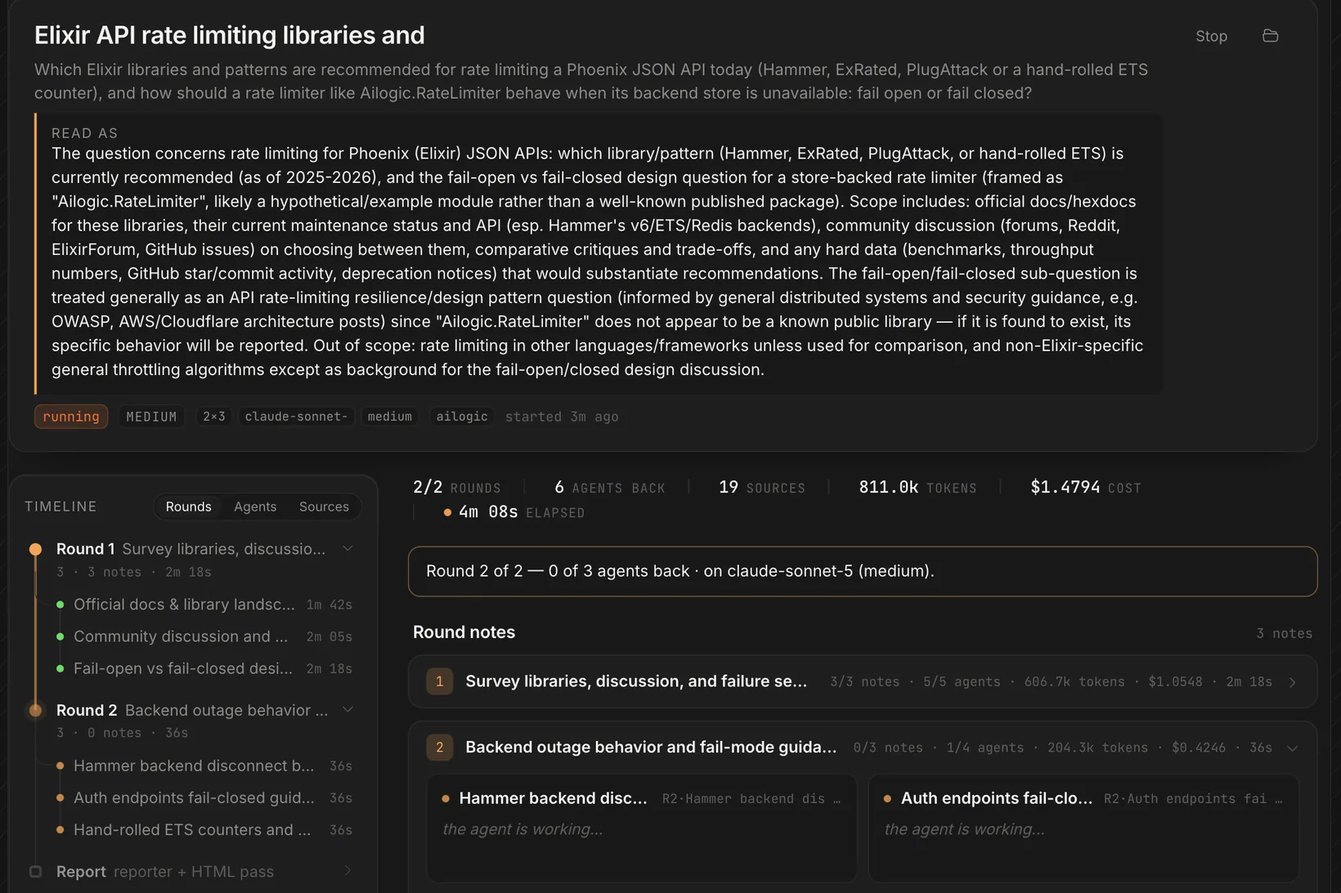
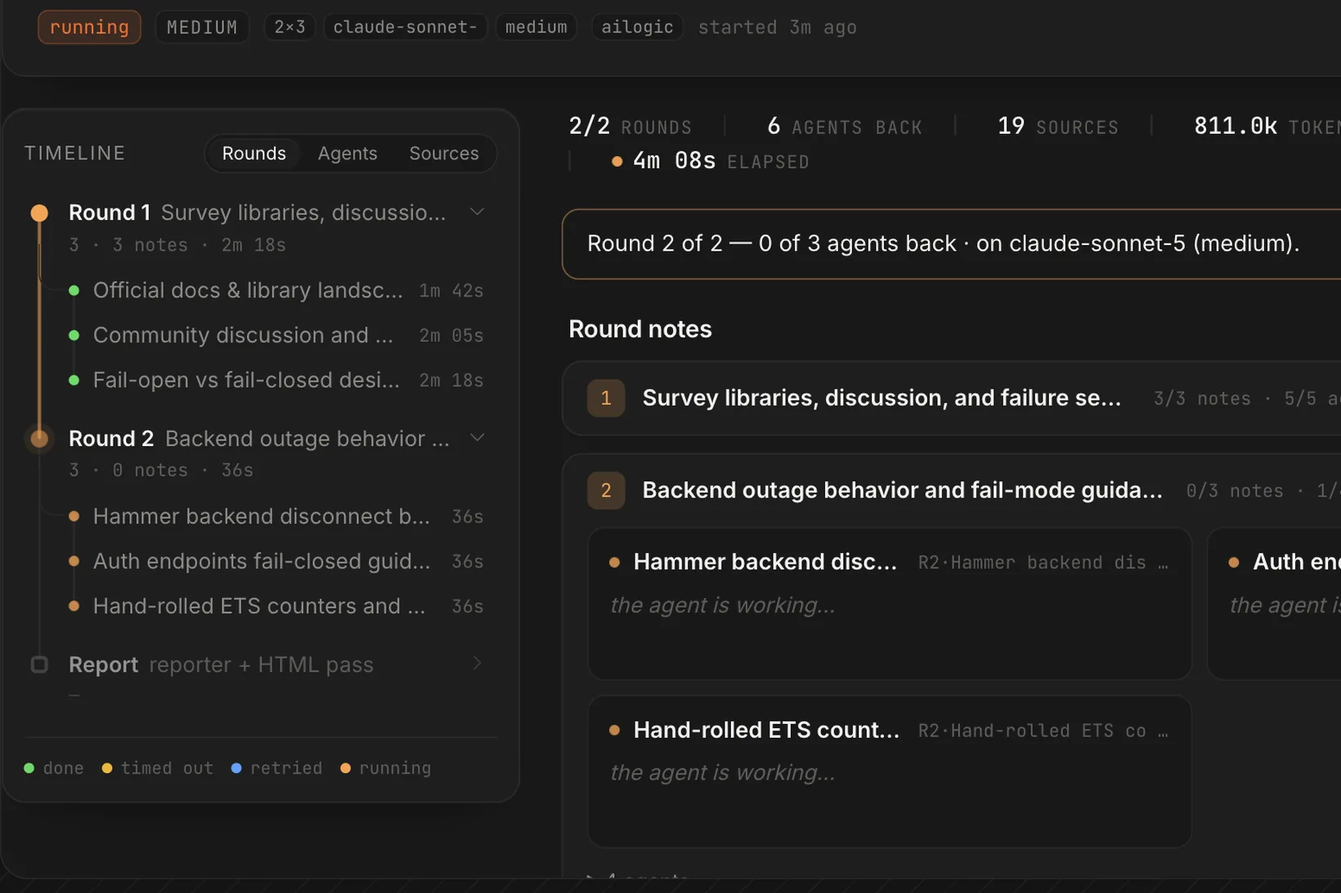
ncode site: phase-2 showcase fixes (S1-S7, S9-S14) and BYOK hero copy
Legible stage shots at 390, lightbox skipped under 600px, same swarm on both
faces, the real composer shot, 1000w srcset for every stage, research re-crop,
range media queries, neighbour warm-up, JS-created zoom image, scrollbar gutter.
Hero and meta description say bring your own key for any provider.

diff --git a/code/index.html b/code/index.html
@@ -4,7 +4,7 @@
 <meta charset="utf-8">
 <meta name="viewport" content="width=device-width, initial-scale=1">
 <title>ncode: a coding harness for the Mac and the terminal</title>
-<meta name="description" content="ncode is a coding harness where every run, agent and operation is a process with its own progress bar. A native Mac app and a CLI on one engine. Bring your own model key.">
+<meta name="description" content="ncode is a coding harness where every run, agent and operation is a process with its own progress bar. A native Mac app and a CLI on one engine. Bring your own key for any provider.">
 <link rel="canonical" href="https://code.llmotions.com/">
 <meta property="og:type" content="website">
 <meta property="og:site_name" content="ncode">
@@ -18,8 +18,8 @@
 <link rel="preconnect" href="https://fonts.gstatic.com" crossorigin>
 <link rel="stylesheet" href="https://fonts.googleapis.com/css2?family=Instrument+Sans:wght@500;600;700&amp;family=Inter:wght@400;500;600&amp;display=swap">
 <link rel="stylesheet" href="/assets/llm.css?v=4c90c21c">
-<link rel="stylesheet" href="/assets/ncode.css?v=31a07ffa">
-<script src="/assets/ncode.js?v=d0248e8e" defer></script>
+<link rel="stylesheet" href="/assets/ncode.css?v=211b546b">
+<script src="/assets/ncode.js?v=5beff562" defer></script>
 </head>
 <body class="nc">
 <a class="nc-skip" href="#main">Skip to content</a>
@@ -53,7 +53,7 @@
             <a class="nc-btn nc-btn-ember" href="#download">Download for Mac</a>
             <a class="nc-btn" href="#install">Install the CLI</a>
         </p>
-        <p class="nc-fine">Developer preview for macOS 15 or later on Apple silicon. Bring your own model key.</p>
+        <p class="nc-fine">Developer preview for macOS 15 or later on Apple silicon. Bring your own key for any provider you choose.</p>
     </div>
 
     <figure class="nc-run" aria-labelledby="run-cap">
@@ -124,17 +124,17 @@
             <h3 id="face-cli">ncode in the terminal</h3>
             <p class="face-lede">A full-screen session with the same runs, the same agents and the same approvals, kept to the keyboard.</p>
             <!-- phase-2 slot: replace this drawing with a capture under /assets/shots/cli/ once the seeded capture exists -->
-            <div class="tty" role="img" aria-label="The ncode terminal session: the swarm run card with the Lead and four reviewers, the found line with one of four reports in, and the key hints for agents, needs you and the side panel.">
-<pre><span class="t-ac">●</span> <b>ailogic</b>   <span class="t-sw">⋔</span> <span class="t-tm">swarm review changes</span> <span class="t-ac">●</span> <span class="t-tm">16:15</span>
+            <div class="tty" role="img" aria-label="The ncode terminal session on the same swarm: the Lead waiting above four sub-agents, ratelimiter-edge done and three thinking, one of four reports in, and the key hints for agents, needs you and the side panel.">
+<pre><span class="t-ac">●</span> <b>ailogic</b>   <span class="t-sw">⋔</span> <span class="t-tm">add edge case tests</span> <span class="t-ac">●</span> <span class="t-tm">1:11</span>
 
- <span class="t-sw">⋔</span> <b class="t-sw">Lead</b>                         <span class="t-ac">thinking ▌</span>
-   <span class="t-tf">├</span> ◒ <span class="t-l2">Docs accuracy</span>  <span class="t-tm">thinking</span>    running a command
-   <span class="t-tf">├</span> <span class="t-ok">✓</span> <span class="t-l1">TS removal</span>     <span class="t-ok">done</span>        Deleting ailogic_typescript/…
-   <span class="t-tf">├</span> ◒ <span class="t-l4">Strategy fit</span>   <span class="t-tm">thinking</span>    wrapping up.
-   <span class="t-tf">╰</span> <span class="t-er">✗</span> <span class="t-l3">Build check</span>    <span class="t-er">turn limit</span>  <span class="t-tm">no answer after 30 turns</span>
+ <span class="t-sw">⋔</span> <b class="t-sw">Lead</b>                         <span class="t-tm">waiting for 3</span>
+   <span class="t-tf">├</span> <span class="t-ok">✓</span> <span class="t-l1">ratelimiter-edge</span>  <span class="t-ok">done</span>      All 14 tests pass…
+   <span class="t-tf">├</span> ◒ <span class="t-l2">templates-edge</span>    <span class="t-tm">thinking</span>
+   <span class="t-tf">├</span> ◒ <span class="t-l3">macros-edge</span>       <span class="t-tm">thinking</span>
+   <span class="t-tf">╰</span> ◒ <span class="t-l4">coreerror-edge</span>    <span class="t-tm">thinking</span>
 
- <span class="t-tm">found</span>           <span class="t-tm">1 of 4 in</span> <span class="t-tf">· no files changed</span>
- <span class="t-sw">⋔</span> <span class="t-l1">▄▄▄▄▄▄▄▄</span> <span class="t-er">▁▁▁▁▁▁▁▁</span> <span class="t-tf">▁▁▁▁▁▁▁▁ ▁▁▁▁▁▁▁▁</span>
+ <span class="t-tm">found</span>           <span class="t-tm">1 of 4 in</span> <span class="t-tf">· 1 file changed</span>
+ <span class="t-sw">⋔</span> <span class="t-l1">▄▄▄▄▄▄▄▄</span> <span class="t-l2">▄▄▄▄</span><span class="t-tf">▁▁▁▁</span> <span class="t-l3">▄▄▄</span><span class="t-tf">▁▁▁▁▁</span> <span class="t-l4">▄▄</span><span class="t-tf">▁▁▁▁▁▁</span>
 
  <span class="t-ac">▌</span><span class="t-tf">                                             </span>
  <b class="t-tm">^F</b> <span class="t-tf">agents</span>  <b class="t-tm">^N</b> <span class="t-tf">needs you</span>  <b class="t-tm">^B</b> <span class="t-tf">panel</span></pre>
@@ -155,27 +155,16 @@
         <h2 id="modes-h">Six ways to send a message</h2>
         <p>The composer carries a mode. It decides what the next message starts: a turn that edits, a read-only plan, a goal, a workflow or a judged plan. <kbd>Shift</kbd>+<kbd>Tab</kbd> flips between Build and Plan in the app, and a slash command that names a mode selects it.</p>
     </header>
-    <div class="composer" role="img" aria-label="The ncode composer with its mode menu open, listing Build, Plan, Goal, Ultra, Workflow and Consensus with their hints.">
-        <ul class="cm-menu">
-            <li class="cm-on"><span class="cm-g">🛠</span><b>Build</b><span>the assistant reads, writes and runs</span></li>
-            <li><span class="cm-g">▤</span><b>Plan</b><span>read-only tools, a step-by-step plan</span></li>
-            <li><span class="cm-g">◎</span><b>Goal</b><span>the next message sets a goal to pursue</span></li>
-            <li><span class="cm-g">⧉</span><b>Ultra</b><span>big tasks become workflows</span></li>
-            <li><span class="cm-g">⧉</span><b>Workflow</b><span>the next message authors and launches a workflow</span></li>
-            <li><span class="cm-g">⚖</span><b>Consensus</b><span>a second model judges the plan first</span></li>
-        </ul>
-        <div class="cm-box">
-            <p class="cm-draft">let's plan how to make this app better<span class="cm-caret"></span></p>
-            <p class="cm-foot"><span class="cm-chip">🛠 Build</span><span class="cm-model">auto</span></p>
-        </div>
-    </div>
+    <figure class="face-shot nc-composer-shot">
+        <a href="/assets/shots/desktop/composer-mode-menu.webp" data-zoom="1760"><img src="/assets/shots/desktop/composer-mode-menu.webp" width="880" height="458" loading="lazy" decoding="async" alt="The real ncode composer with its mode menu open, listing Build, Plan, Goal, Ultra, Workflow and Consensus with their hints, and the model chip set to claude-sonnet-5 at Medium effort."></a>
+    </figure>
 </section>
 
 <!-- ═══ showcase: each mode caught running in the real app (shots: ~/.cache/ncode/demo/shots, QA OK) ═══ -->
 <section id="showcase" class="nc-sec nc-show" aria-labelledby="show-h">
     <header class="nc-head">
         <h2 id="show-h">See them run</h2>
-        <p>Real captures of the Mac app, all on one sandbox Elixir project with claude-sonnet-5 at Medium effort. Pick a mode, then open its window to see it full size.</p>
+        <p>Real captures of the Mac app, all on one sandbox Elixir project with claude-sonnet-5 at Medium effort (a second model judges the consensus run). Pick a mode, then open its window to see it full size.</p>
     </header>
     <div class="sc" data-showcase>
         <div class="sc-tabs" role="tablist" aria-label="Modes and run types" hidden>
@@ -193,64 +182,64 @@
             <div class="sc-panel" id="sc-swarm" style="--lane: var(--teal)">
                 <h3 class="sc-h"><span class="sc-g" aria-hidden="true">⋔</span> Swarm</h3>
                 <figure class="sc-fig">
-                    <a class="sc-stage" href="/assets/shots/desktop/agents-grid.webp" data-zoom="1760"><img src="/assets/shots/desktop/agents-grid.webp" width="880" height="569" loading="lazy" decoding="async" alt="The agents pane in its grid layout: the Lead, waiting, with 0 of 4 sub-agents done, above four sub-agent cards, ratelimiter-edge, templates-edge, macros-edge and coreerror-edge, each active on claude-sonnet-5 with its own bar, cached and total tokens, tool icons and a Stop button."></a>
+                    <a class="sc-stage" href="/assets/shots/desktop/agents-grid.webp" data-zoom="1760"><img src="/assets/shots/desktop/agents-grid.webp" srcset="/assets/shots/desktop/agents-grid-1000.webp 1000w, /assets/shots/desktop/agents-grid.webp 1760w" sizes="(min-width: 1101px) 835px, calc(100vw - 60px)" width="880" height="569" loading="lazy" decoding="async" alt="The agents pane in its grid layout: the Lead, waiting, with 0 of 4 sub-agents done, above four sub-agent cards, ratelimiter-edge, templates-edge, macros-edge and coreerror-edge, each active on claude-sonnet-5 with its own bar, cached and total tokens, tool icons and a Stop button."></a>
                     <figcaption><span class="sc-now">Four sub-agents, one per module, add edge-case tests while the Lead waits; every card keeps its own bar, token count and Stop button.</span> <span class="sc-does"><code>/swarm</code> hands a task to a Lead that splits it, runs sub-agents side by side, then checks their work and reports back.</span> <a class="sc-doc" href="/docs/desktop/swarms/">Swarms guide</a></figcaption>
                 </figure>
             </div>
             <div class="sc-panel" id="sc-consensus" style="--lane: var(--gold)">
                 <h3 class="sc-h"><span class="sc-g" aria-hidden="true">⚖</span> Consensus</h3>
                 <figure class="sc-fig">
-                    <a class="sc-stage" href="/assets/shots/desktop/consensus-spine.webp" data-zoom="1272"><img src="/assets/shots/desktop/consensus-spine.webp" width="636" height="492" loading="lazy" decoding="async" alt="A consensus card in the spine layout: round 1 plan and verdict, round 2 revised plan and verdict, both REVISE with a pass or fail mark per check, then the gate, your go before anything is written, with Approve and Revise, and the implement step still waiting."></a>
+                    <a class="sc-stage" href="/assets/shots/desktop/consensus-spine.webp" data-zoom="1272"><img src="/assets/shots/desktop/consensus-spine.webp" srcset="/assets/shots/desktop/consensus-spine-1000.webp 1000w, /assets/shots/desktop/consensus-spine.webp 1272w" sizes="(min-width: 1101px) 835px, calc(100vw - 60px)" width="636" height="492" loading="lazy" decoding="async" alt="A consensus card in the spine layout: round 1 plan and verdict, round 2 revised plan and verdict, both REVISE with a pass or fail mark per check, then the gate, your go before anything is written, with Approve and Revise, and the implement step still waiting."></a>
                     <figcaption><span class="sc-now">Two rounds on a webhook-retry plan: the judge marked every check and sent it back both times, so the run holds at the gate until you approve.</span> <span class="sc-does">A planner writes the plan and a second model judges it against the checks you pick; they take turns before any code changes.</span> <a class="sc-doc" href="/docs/desktop/consensus/">Consensus guide</a></figcaption>
                 </figure>
             </div>
             <div class="sc-panel" id="sc-plan" style="--lane: var(--ember-2)">
                 <h3 class="sc-h"><span class="sc-g" aria-hidden="true">▤</span> Plan</h3>
                 <figure class="sc-fig">
-                    <a class="sc-stage" href="/assets/shots/desktop/plans-gate.webp" data-zoom="1232"><img src="/assets/shots/desktop/plans-gate.webp" width="616" height="572" loading="lazy" decoding="async" alt="The foot of a finished Planner card: the plan's examples, a Verify step with mix test and mix format, two open questions, $0.0440 spent, and the Approve button's menu open, asking whether the Assistant or a Swarm implements the plan, beside Revise and Decline."></a>
+                    <a class="sc-stage" href="/assets/shots/desktop/plans-gate.webp" data-zoom="1232"><img src="/assets/shots/desktop/plans-gate.webp" srcset="/assets/shots/desktop/plans-gate-1000.webp 1000w, /assets/shots/desktop/plans-gate.webp 1232w" sizes="(min-width: 1101px) 835px, calc(100vw - 60px)" width="616" height="572" loading="lazy" decoding="async" alt="The foot of a finished Planner card: the plan's examples, a Verify step with mix test and mix format, two open questions, $0.0440 spent, and the Approve button's menu open, asking whether the Assistant or a Swarm implements the plan, beside Revise and Decline."></a>
                     <figcaption><span class="sc-now">A finished plan for a pagination helper ends in open questions; Approve asks who builds it, the Assistant alone or a Swarm.</span> <span class="sc-does">In Plan mode the agent only reads and searches; nothing changes until you approve, revise or decline its plan.</span> <a class="sc-doc" href="/docs/desktop/plans/">Plans guide</a></figcaption>
                 </figure>
             </div>
             <div class="sc-panel" id="sc-goal" style="--lane: var(--violet)">
                 <h3 class="sc-h"><span class="sc-g" aria-hidden="true">◎</span> Goal</h3>
                 <figure class="sc-fig">
-                    <a class="sc-stage" href="/assets/shots/desktop/goal-stage.webp" data-zoom="1640"><img src="/assets/shots/desktop/goal-stage.webp" width="820" height="546" loading="lazy" decoding="async" alt="A finished goal run: the purple goal badge and its text, done after 2 minutes 5 seconds and 24 ops, the assistant's report of doctests added to all 7 public functions with 19 tests passed and 0 failures, the two changed files, $0.3010 spent, and the agents pane with the Goal above the Assistant, marked done."></a>
+                    <a class="sc-stage" href="/assets/shots/desktop/goal-stage.webp" data-zoom="1640"><img src="/assets/shots/desktop/goal-stage.webp" srcset="/assets/shots/desktop/goal-stage-1000.webp 1000w, /assets/shots/desktop/goal-stage.webp 1640w" sizes="(min-width: 1101px) 835px, calc(100vw - 60px)" width="820" height="546" loading="lazy" decoding="async" alt="A finished goal run: the purple goal badge and its text, done after 2 minutes 5 seconds and 24 ops, the assistant's report of doctests added to all 7 public functions with 19 tests passed and 0 failures, the two changed files, $0.3010 spent, and the agents pane with the Goal above the Assistant, marked done."></a>
                     <figcaption><span class="sc-now">The goal: a doctest on every public function in Ailogic.Core.Pagination and a passing test run. One turn met it in 2m 05s, 19 passed and 0 failures.</span> <span class="sc-does">Goal mode, or <code>/goal</code>, sets something the conversation keeps working towards across turns.</span> <a class="sc-doc" href="/docs/desktop/composer/#goals">Goals in the composer guide</a></figcaption>
                 </figure>
             </div>
             <div class="sc-panel" id="sc-ultra" style="--lane: var(--pink)">
                 <h3 class="sc-h"><span class="sc-g" aria-hidden="true">⧉</span> Ultra</h3>
                 <figure class="sc-fig">
-                    <a class="sc-stage" href="/assets/shots/desktop/ultra-stage.webp" data-zoom="1640"><img src="/assets/shots/desktop/ultra-stage.webp" width="820" height="546" loading="lazy" decoding="async" alt="An Ultra-mode conversation: the finished review-changes-2 card, a request to fan the review out as a workflow, the assistant's reply that it launched review-changes-3 with the phases Review, Verify and Report, the running review-changes-3 card, the composer with the Ultra mode pill, and the agents pane with the Review panel of three agents, one done and two running, and Verify and Report pending."></a>
+                    <a class="sc-stage" href="/assets/shots/desktop/ultra-stage.webp" data-zoom="1640"><img src="/assets/shots/desktop/ultra-stage.webp" srcset="/assets/shots/desktop/ultra-stage-1000.webp 1000w, /assets/shots/desktop/ultra-stage.webp 1640w" sizes="(min-width: 1101px) 835px, calc(100vw - 60px)" width="820" height="546" loading="lazy" decoding="async" alt="An Ultra-mode conversation: the finished review-changes-2 card, a request to fan the review out as a workflow, the assistant's reply that it launched review-changes-3 with the phases Review, Verify and Report, the running review-changes-3 card, the composer with the pink Ultra mode button, and the agents pane with the Review panel of three agents, one done and two running, and Verify and Report pending."></a>
                     <figcaption><span class="sc-now">Asked to fan a review out, the assistant launched the saved review-changes workflow with three lenses; its Review panel is running, one agent done.</span> <span class="sc-does">In Ultra mode the assistant takes on big requests by writing and running workflows itself, and reports back when they finish.</span> <a class="sc-doc" href="/docs/desktop/workflows/#ultra-mode">Ultra mode guide</a></figcaption>
                 </figure>
             </div>
             <div class="sc-panel" id="sc-workflow" style="--lane: var(--sky)">
                 <h3 class="sc-h"><span class="sc-g" aria-hidden="true">⧉</span> Workflow</h3>
                 <figure class="sc-fig">
-                    <a class="sc-stage" href="/assets/shots/desktop/workflows-stage.webp" data-zoom="1760"><img src="/assets/shots/desktop/workflows-stage.webp" width="880" height="428" loading="lazy" decoding="async" alt="The Workflows page: three runs of review-changes, the live one in Review, one done and one stopped, and the live run's pipeline: running, $0.7322 so far, a Review panel of three agents for correctness, security and maintainability, one done and two running, then Verify and Report pending."></a>
-                    <figcaption><span class="sc-now">review-changes-3 is in its Review phase, one agent each for correctness, security and maintainability, one done so far; Verify and Report come next.</span> <span class="sc-does">A workflow runs agents in a fixed order written in advance, such as review, verify each finding, then report, so it runs the same way every time.</span> <a class="sc-doc" href="/docs/desktop/workflows/">Workflows guide</a></figcaption>
+                    <a class="sc-stage" href="/assets/shots/desktop/workflows-stage.webp" data-zoom="1760"><img src="/assets/shots/desktop/workflows-stage.webp" srcset="/assets/shots/desktop/workflows-stage-1000.webp 1000w, /assets/shots/desktop/workflows-stage.webp 1760w" sizes="(min-width: 1101px) 835px, calc(100vw - 60px)" width="880" height="428" loading="lazy" decoding="async" alt="The Workflows page: three runs of review-changes, the live one in Review, one done and one stopped, and the live run's pipeline: running, $0.7322 so far, a Review panel of three agents for correctness, security and maintainability, one done and two running, then Verify and Report pending."></a>
+                    <figcaption><span class="sc-now">The run the Ultra turn launched, on the Workflows page: review-changes-3 is in its Review phase, one agent each for correctness, security and maintainability, one done so far; Verify and Report come next.</span> <span class="sc-does">A workflow runs agents in a fixed order written in advance, such as review, verify each finding, then report, so it runs the same way every time. <code>/workflow</code> writes a new one from your message.</span> <a class="sc-doc" href="/docs/desktop/workflows/">Workflows guide</a></figcaption>
                 </figure>
             </div>
             <div class="sc-panel" id="sc-research" style="--lane: var(--cream)">
                 <h3 class="sc-h"><span class="sc-g" aria-hidden="true">◈</span> Deep research</h3>
                 <figure class="sc-fig">
-                    <a class="sc-stage" href="/assets/shots/desktop/research-stage.webp" data-zoom="1640"><img src="/assets/shots/desktop/research-stage.webp" width="820" height="546" loading="lazy" decoding="async" alt="The Deep research page mid-run at level Medium: the question about Elixir rate-limiting libraries and how it was read, a timeline with round 1's three notes done and round 2's three agents working, the counters of 19 sources, 811.0k tokens and $1.4794, and the banner Round 2 of 2, 0 of 3 agents back."></a>
+                    <a class="sc-stage" href="/assets/shots/desktop/research-stage.webp" data-zoom="1640"><img src="/assets/shots/desktop/research-stage.webp" srcset="/assets/shots/desktop/research-stage-1000.webp 1000w, /assets/shots/desktop/research-stage.webp 1640w" sizes="(min-width: 1101px) 835px, calc(100vw - 60px)" width="820" height="546" loading="lazy" decoding="async" alt="The Deep research page mid-run at level Medium: the running chip row, a timeline with round 1's three notes done and round 2's three agents working, the counters of 2 of 2 rounds, 6 agents back and 19 sources, the banner Round 2 of 2, 0 of 3 agents back, and the round notes with round 2's agents still working."></a>
                     <figcaption><span class="sc-now">A Medium research on Elixir rate-limiting libraries: round 1's three notes are in and round 2's three agents are still working, 19 sources so far.</span> <span class="sc-does">A lead plans the angles, worker agents search and read in rounds, and a reporter writes an answer with its sources.</span> <a class="sc-doc" href="/docs/desktop/research/">Deep research guide</a></figcaption>
                 </figure>
             </div>
             <div class="sc-panel" id="sc-approvals" style="--lane: var(--gold)">
                 <h3 class="sc-h"><span class="sc-g" aria-hidden="true">?</span> Approvals</h3>
                 <figure class="sc-fig">
-                    <a class="sc-stage" href="/assets/shots/desktop/quickstart-approval.webp" data-zoom="1504"><img src="/assets/shots/desktop/quickstart-approval.webp" width="752" height="462" loading="lazy" decoding="async" alt="A run card flagged needs your answer, waiting on the command mix test test/ailogic/rate_limiter_test.exs, with the buttons Approve, Deny, Deny and stop, and Always allow mix test."></a>
+                    <a class="sc-stage" href="/assets/shots/desktop/quickstart-approval.webp" data-zoom="1504"><img src="/assets/shots/desktop/quickstart-approval.webp" srcset="/assets/shots/desktop/quickstart-approval-1000.webp 1000w, /assets/shots/desktop/quickstart-approval.webp 1504w" sizes="(min-width: 1101px) 835px, calc(100vw - 60px)" width="752" height="462" loading="lazy" decoding="async" alt="A run card flagged needs your answer, waiting on the command mix test test/ailogic/rate_limiter_test.exs, with the buttons Approve, Deny, Deny and stop, and Always allow mix test."></a>
                     <figcaption><span class="sc-now">A run stops before <code>mix test test/ailogic/rate_limiter_test.exs</code> and waits: Approve, Deny, Deny &amp; stop, or Always allow “mix test”.</span> <span class="sc-does">In Auto mode agents write and run safe commands on their own; anything else asks first, on a card in the transcript.</span> <a class="sc-doc" href="/docs/desktop/approvals/#answering-an-approval-card">Approvals guide</a></figcaption>
                 </figure>
             </div>
             <div class="sc-panel" id="sc-changes" style="--lane: var(--ok)">
                 <h3 class="sc-h"><span class="sc-g" aria-hidden="true">±</span> Changes and rewind</h3>
                 <figure class="sc-fig">
-                    <a class="sc-stage" href="/assets/shots/desktop/agents-changes-2col.webp" data-zoom="1744"><img src="/assets/shots/desktop/agents-changes-2col.webp" width="872" height="532" loading="lazy" decoding="async" alt="The Changes view of the agents pane, shown in two columns: all changes plus 171 minus 2, the lib tree open to delivery_worker.ex and webhooks.ex with the test folder folded, and beside it the diff of delivery_worker.ex with removed and added lines."></a>
-                    <figcaption><span class="sc-now">After a judged plan was built, the Changes view lists what it touched, +171 −2, with one file's diff open (the pane is shown here in two columns).</span> <span class="sc-does">Every file is saved before an agent changes it, so one file or a whole turn can be put back from here or with <code>/rewind</code>.</span> <a class="sc-doc" href="/docs/desktop/rewind/">Rewind guide</a></figcaption>
+                    <a class="sc-stage" href="/assets/shots/desktop/agents-changes-2col.webp" data-zoom="1744"><img src="/assets/shots/desktop/agents-changes-2col.webp" srcset="/assets/shots/desktop/agents-changes-2col-1000.webp 1000w, /assets/shots/desktop/agents-changes-2col.webp 1744w" sizes="(min-width: 1101px) 835px, calc(100vw - 60px)" width="872" height="532" loading="lazy" decoding="async" alt="The Changes view of the agents pane, shown in two columns: all changes plus 171 minus 2, the lib tree open to delivery_worker.ex and webhooks.ex with the test folder folded, and beside it the diff of delivery_worker.ex with removed and added lines."></a>
+                    <figcaption><span class="sc-now">In the webhook-retry conversation, the Changes view lists what was touched, +171 −2, with one file's diff open (the pane is shown here in two columns).</span> <span class="sc-does">Every file is saved before an agent changes it, so one file or a whole turn can be put back from here or with <code>/rewind</code>.</span> <a class="sc-doc" href="/docs/desktop/rewind/">Rewind guide</a></figcaption>
                 </figure>
             </div>
         </div>
@@ -381,7 +370,6 @@
         <a class="zm-full" id="nc-zoom-full" href="#">Open the full image</a>
         <button type="button" class="zm-x" id="nc-zoom-x" autofocus>Close</button>
     </div>
-    <img class="zm-img" id="nc-zoom-img" alt="">
 </dialog>
 
 

diff --git a/code/assets/ncode.css b/code/assets/ncode.css
@@ -226,7 +226,7 @@ nav.nc-nav { padding: 14px 40px; gap: 28px; }
 }
 
 /* ─── narrower screens ─── */
-@media (max-width: 1100px) {
+@media (width <= 1100px) {
     .nc-hero { grid-template-columns: minmax(0, 1fr); min-height: 0; gap: 48px; padding-top: 120px; }
     .nc-split { grid-template-columns: minmax(0, 1fr); }
     .st-list { grid-template-columns: repeat(2, minmax(0, 1fr)); }
@@ -324,7 +324,7 @@ nav.nc-nav { padding: 14px 40px; gap: 28px; }
 .nc main .sc-doc { grid-column: 2; grid-row: 1; align-self: start; font-size: 0.88rem; white-space: nowrap; }
 
 /* ─── a larger look: a modal <dialog> (Esc closes, the page behind is inert, focus returns) ─── */
-html:has(.nc-zoom[open]) { overflow: hidden; }
+html:has(.nc-zoom[open]) { overflow: hidden; scrollbar-gutter: stable; }
 .nc-zoom { width: min(1600px, 94vw); max-width: calc(100vw - 16px); margin: auto; padding: 0; border: 1px solid var(--line-2); border-radius: 14px; background: #0e0e14; color: var(--ink); box-shadow: 0 40px 140px -20px rgba(0, 0, 0, 0.9); overflow: hidden; }
 .nc-zoom::backdrop { background: rgba(5, 5, 9, 0.86); }
 .zm-bar { display: flex; align-items: center; gap: 16px; padding: 10px 12px 10px 18px; border-bottom: 1px solid var(--line); }
@@ -343,12 +343,13 @@ html:has(.nc-zoom[open]) { overflow: hidden; }
 @keyframes nc-zoom { from { opacity: 0; transform: translateY(8px) scale(0.985); } }
 @keyframes nc-fade { from { opacity: 0; } }
 
-@media (max-width: 1100px) {
+@media (width <= 1100px) {
     .sc { grid-template-columns: minmax(0, 1fr); gap: 16px; }
     .sc-tabs { flex-direction: row; gap: 4px; padding-bottom: 6px; overflow-x: auto; scrollbar-width: thin; }
     .sc-tabs [role="tab"] { flex: 0 0 auto; width: auto; grid-template-columns: auto auto; column-gap: 7px; padding: 9px 12px 11px; font-size: 0.95rem; }
     .sc-cmd { display: none; }
     .sc-tabs i { grid-column: 1 / -1; margin-top: 7px; }
+    .sc-tabs { padding: 4px 4px 6px; scroll-padding-inline: 4px; }
 }
 @media (max-width: 560px) {
     .sc-stage { border-radius: 12px; }
@@ -358,4 +359,6 @@ html:has(.nc-zoom[open]) { overflow: hidden; }
     .nc main .sc-doc { grid-column: 1; grid-row: auto; }
     .zm-bar { flex-wrap: wrap; row-gap: 8px; }
     .zm-cap { flex-basis: 100%; }
+    .sc-stage { aspect-ratio: auto; padding: 10px; }
+    .sc-stage img { position: static; width: 100%; height: auto; max-width: none; max-height: none; }
 }

diff --git a/code/assets/ncode.js b/code/assets/ncode.js
@@ -85,7 +85,7 @@
   if (list) {
     var tabs = Array.prototype.slice.call(list.querySelectorAll("[role=tab]"));
     var panels = tabs.map(function (t) { return document.getElementById(t.getAttribute("aria-controls")); });
-    var wide = window.matchMedia("(min-width: 1101px)");
+    var wide = window.matchMedia("(width > 1100px)");
     var orient = function () { list.setAttribute("aria-orientation", wide.matches ? "vertical" : "horizontal"); };
     var warm = function (i) {
       var img = panels[i].querySelector("img[loading=lazy]");
@@ -99,6 +99,8 @@
         panels[j].hidden = !on;
       });
       warm(i);
+      warm((i + 1) % tabs.length);
+      warm((i - 1 + tabs.length) % tabs.length);
       if (focus) tabs[i].focus({ preventScroll: !wide.matches });
       if (!wide.matches) {
         var t = tabs[i];
@@ -140,7 +142,7 @@
   /* a larger look at a shot: a modal <dialog>. Without it (or without this file) the link opens the image. */
   var box = document.getElementById("nc-zoom");
   if (box && typeof box.showModal === "function") {
-    var zImg = document.getElementById("nc-zoom-img");
+    var zImg = box.appendChild(Object.assign(document.createElement("img"), { className: "zm-img", id: "nc-zoom-img", alt: "" }));
     var zCap = document.getElementById("nc-zoom-cap");
     var zFull = document.getElementById("nc-zoom-full");
     var zBar = box.querySelector(".zm-bar");
@@ -156,7 +158,7 @@
     };
     document.addEventListener("click", function (e) {
       var a = e.target.closest ? e.target.closest("a[data-zoom]") : null;
-      if (!a || e.defaultPrevented || e.button !== 0 || e.metaKey || e.ctrlKey || e.shiftKey || e.altKey) return;
+      if (!a || e.defaultPrevented || e.button !== 0 || e.metaKey || e.ctrlKey || e.shiftKey || e.altKey || window.innerWidth < 600) return;
       var img = a.querySelector("img");
       if (!img) return;
       e.preventDefault();
